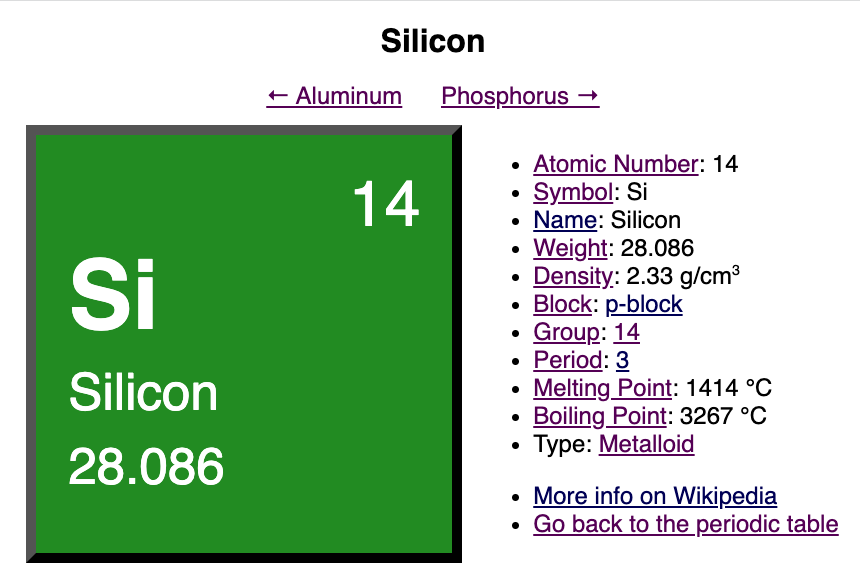
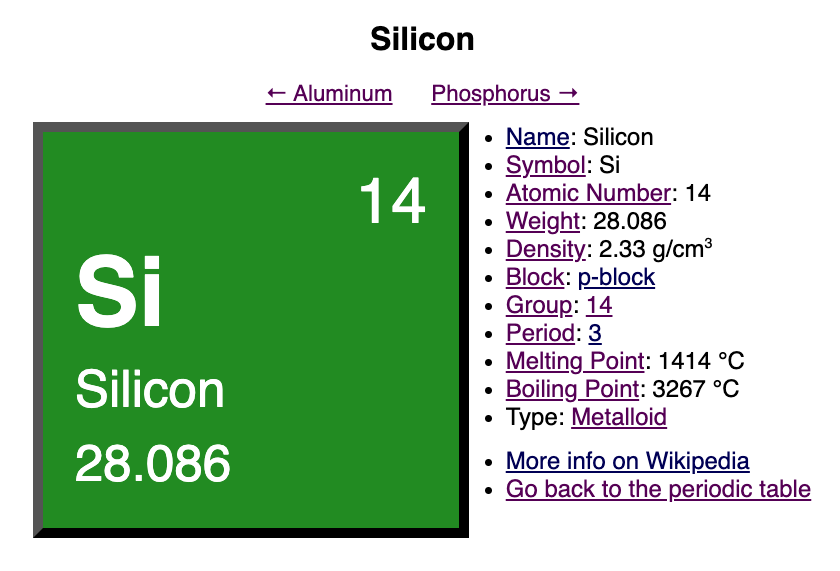
Refine screen size breakpoints.
This makes the app usable on phones, tablets, laptops, and desktops.

diff --git a/client/main.css b/client/main.css
@@ -63,7 +63,6 @@ td {
 }
 
 td article.element {
-    display: block;
     font-size: 1rem;
     border: none;
     margin: -1px;
@@ -159,41 +158,64 @@ https://stackoverflow.com/a/3494108/12841859
     outline: 5px outset black;
 }
 
-@media only screen and (max-width: 522px) {
+@media only screen and (max-width: 390px) {
     nav a {
-        font-size: 1rem;
+        font-size: 1.2rem;
+    }
+    ol, ul {
+        padding: 0 0 0 0.75rem;
+        margin: 0 0 0.75rem 0.75rem;
     }
     section.element {
-        gap: 0.125rem;
+        gap: 0.05rem;
     }
     section.element article {
-        font-size: 1rem;
+        font-size: 1.6rem;
+        border: 5px outset black;
         padding: 0.5rem 1rem;
         min-width: 6rem;
     }
     section.element aside {
-        font-size: 0.5rem;
+        font-size: 0.6rem;
     }
 }
 
-@media only screen and (max-width: 880px) {
-    td article .atomic {
-        font-size: 0.5em;
+@media only screen and (min-width: 391px) {
+    nav a {
+        font-size: 1.4rem;
     }
-    td article .symbol {
-        font-size: 1em;
+    ol, ul {
+        padding: 0 0 0 0.75rem;
+        margin: 0 0 0.75rem 0.75rem;
     }
-    td article.element {
-        padding: 0.25rem;
+    section.element {
+        gap: 0.05rem;
+    }
+    section.element article {
+        font-size: 1.8rem;
+        border: 6px outset black;
+        padding: 0.5rem 1rem;
+        min-width: 6rem;
+    }
+    section.element aside {
+        font-size: 0.6rem;
     }
 }
 
-@media only screen and (min-width: 522px) and (max-width: 828px) {
+@media only screen and (min-width: 522px) {
+    nav {
+        margin: 0.3rem;
+    }
+    ol, ul {
+        padding: 0 0 0 0.8rem;
+        margin: 0 0 0.8rem 0.8rem;
+    }
     section.element {
         gap: 0.25rem;
     }
     section.element article {
         font-size: 2rem;
+        border: 8px outset black;
         padding: 1rem 2rem;
         min-width: 11rem;
     }
@@ -202,38 +224,217 @@ https://stackoverflow.com/a/3494108/12841859
     }
 }
 
-@media only screen and (max-width: 1400px) {
-    td article .name,
-    td article .weight {
-        display: none;
+@media only screen and (min-width: 768px) {
+    ol, ul {
+        padding: 0 0 0 0.9rem;
+        margin: 0 0 0.9rem 0.9rem;
     }
-    td article.element {
-        padding: 0.5rem;
+    section.element {
+        gap: 0.3rem;
+    }
+    section.element article {
+        font-size: 3rem;
+        border: 9px outset black;
+        padding: 2rem;
+        min-width: 16rem;
+    }
+    section.element aside {
+        font-size: 1.25rem;
+    }
+}
+
+/* Element detail default */
+@media only screen and (min-width: 820px) {
+    nav {
+        font-size: 1.5rem;
+        margin: 1rem;
+    }
+    nav a {
+        padding: 0 1rem;
+    }
+    ol, ul {
+        padding: 0 0 0 1rem;
+        margin: 0 0 1rem 1rem;
+    }
+    section.element {
+        gap: 0.375rem;
+    }
+    section.element article {
+        font-size: 4rem;
+        border: 10px outset black;
+        padding: 2rem;
+        min-width: 22rem;
+    }
+    section.element aside {
+        font-size: 1.5rem;
     }
 }
 
 @media only screen and (min-width: 1125px) {
+    ol, ul {
+        padding: 0 0 0 1rem;
+        margin: 0 0 1rem 1.5rem;
+    }
+    section.element {
+        gap: 0.5rem;
+    }
     section.element article {
         font-size: 5rem;
         padding: 2rem 4rem;
-        min-width: 30rem;
+        min-width: 27rem;
     }
     section.element aside {
         font-size: 2rem;
     }
 }
 
-@media only screen and (min-width: 1530px) {
+@media only screen and (max-width: 540px) {
+    th {
+        font-size: 0.6rem;
+    }
+    td article.element {
+        min-width: auto;
+        padding: 0.1rem;
+    }
+    td article .atomic {
+        display: none;
+    }
     td article .symbol {
-        font-size: 2em;
+        font-size: 1.0em;
     }
     td article .name,
     td article .weight {
-        font-size: 0.9em;
+        display: none;
     }
 }
 
-@media screen and (prefers-color-scheme: dark) {
+@media only screen and (min-width: 541px) {
+    th {
+        font-size: 0.6rem;
+    }
+    td article.element {
+        min-width: auto;
+        padding: 0.1rem;
+    }
+    td article .atomic {
+        display: none;
+    }
+    td article .symbol {
+        font-size: 1.2em;
+    }
+    td article .name,
+    td article .weight {
+        display: none;
+    }
+}
+
+@media only screen and (min-width: 590px) {
+    th {
+        font-size: 0.65rem;
+    }
+    td article .atomic {
+        font-size: 0.75em;
+        display: block;
+    }
+    td article .symbol {
+        font-size: 1.3em;
+    }
+    td article .name,
+    td article .weight {
+        display: none;
+    }
+}
+
+@media only screen and (min-width: 630px) {
+    th {
+        font-size: 0.7rem;
+    }
+    td article.element {
+        min-width: auto;
+        padding: 0.1rem;
+    }
+    td article .atomic {
+        font-size: 0.75em;
+        display: block;
+    }
+    td article .symbol {
+        font-size: 1.4rem;
+    }
+}
+
+@media only screen and (min-width: 720px) {
+    th {
+        font-size: 0.8rem;
+    }
+    td article.element {
+        padding: 0.2rem;
+    }
+    td article .atomic {
+        font-size: 0.8em;
+    }
+    td article .symbol {
+        font-size: 1.5em;
+    }
+}
+
+@media only screen and (min-width: 1010px) {
+    th {
+        font-size: 0.9rem;
+    }
+    td article.element {
+        padding: 0.1rem;
+    }
+    td article .name {
+        display: inline;
+        font-size: 0.6em;
+    }
+}
+
+@media only screen and (min-width: 1230px) {
+    td article.element {
+        padding: 0.2rem;
+    }
+    td article .atomic {
+        font-size: 0.9em;
+    }
+    td article .name,
+    td article .weight {
+        display: inline;
+        font-size: 0.7em;
+    }
+}
+
+@media only screen and (min-width: 1300px) {
+    td article.element {
+        padding: 0.2rem;
+    }
+    td article .atomic {
+        font-size: 1.0em;
+    }
+    td article .name,
+    td article .weight {
+        font-size: 0.75em;
+    }
+}
+
+@media only screen and (min-width: 1600px) {
+    td article.element {
+        min-width: 5.0rem;
+        padding: 0.2rem;
+    }
+}
+
+@media only screen and (min-width: 1700px) {
+    td article.element {
+        min-width: 5.3rem;
+    }
+    td article .name,
+    td article .weight {
+        font-size: 0.8em;
+    }
+}
+
+@media only screen and (prefers-color-scheme: dark) {
     body {
         background: black;
         color: white;

diff --git a/README.md b/README.md
@@ -14,5 +14,7 @@ CSS, & client-side JS.
 - [x] Show details about each element
 - [ ] Show info about simple chemicals (e.g. H<sub>2</sub>, H<sub>2</sub>O, NH<sub>3</sub>)
 
-![Periodic Table of the Elements](screenshots/periodic-table.png)
 ![Silicon element details](screenshots/silicon.png)
+![Periodic Table of the Elements (small)](screenshots/periodic-table-541px.png)
+![Periodic Table of the Elements (medium)](screenshots/periodic-table-720px.png)
+![Periodic Table of the Elements (large)](screenshots/periodic-table-1600px.png)
